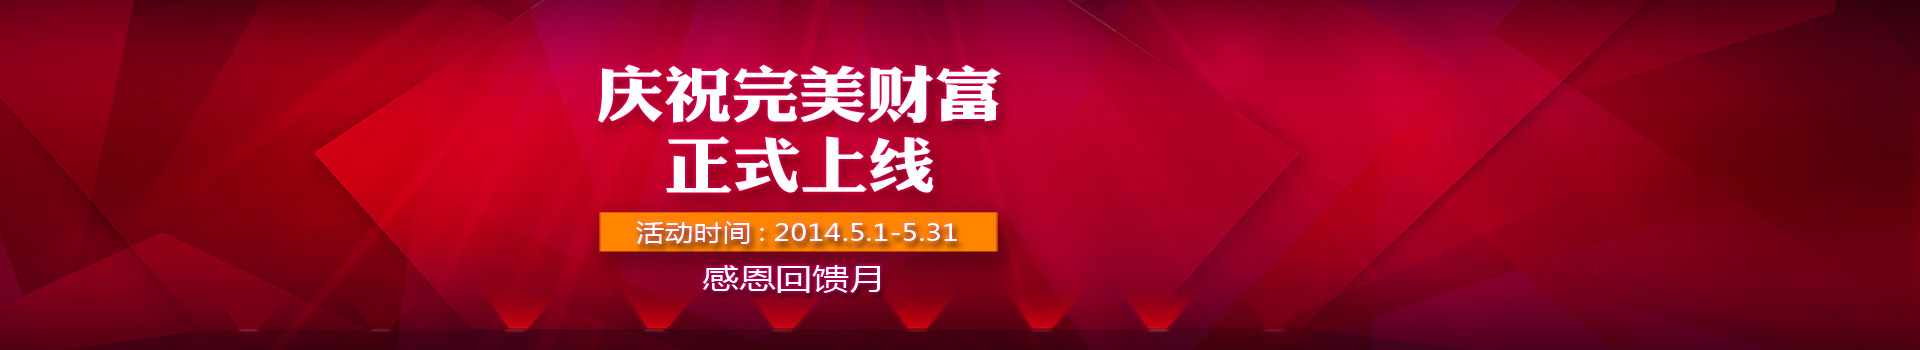
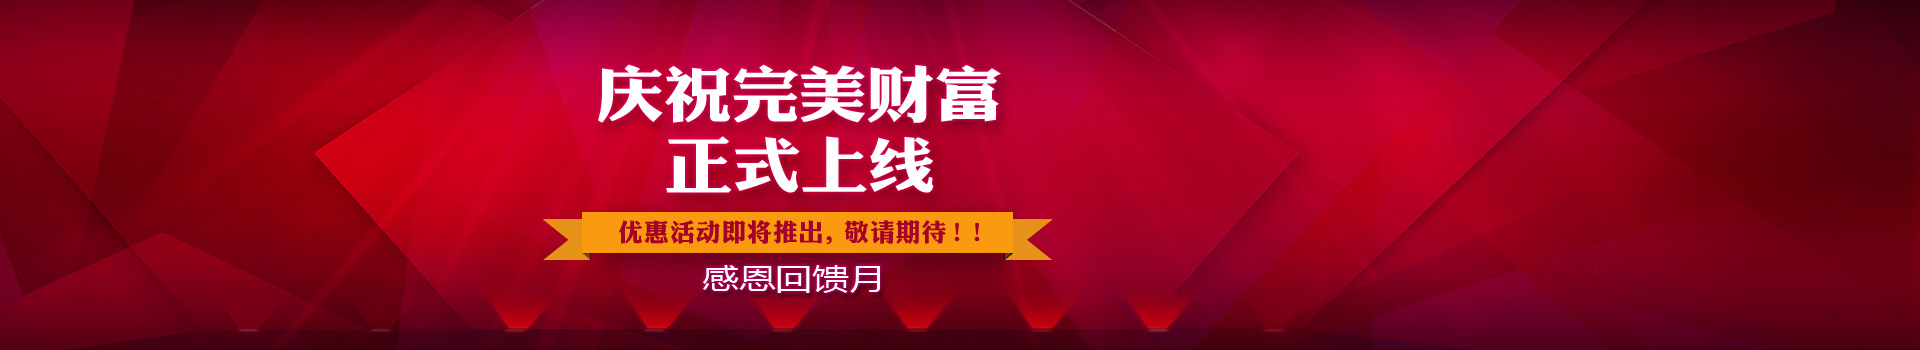
修正头部和脚步文件部分样式问题,修改banner第一张焦点图

Changed region(s): [[0.2812, 0.6, 0.5625, 0.7429]]

diff --git a/app/Tpl/red/inc/header.html b/app/Tpl/red/inc/header.html
@@ -66,7 +66,7 @@ var send_span = {function name="app_conf" v="SEND_SPAN"}000;
 			<div class="f_r">
 				<span id="user_head_tip" class="pr">
 				{insert name="load_user_tip"}
-				<span class="li"><a href="{url x="index"}">首页</a></span><span class="li"><a href="{url x="index" r="helpcenter"}">帮助</a></span><span class="li">客服电话：{function name="app_conf" v="SHOP_TEL"}</span>
+				<span class="li"><a href="{url x="index"}">首页</a></span><span class="li"><a href="{url x="index" r="helpcenter"}">帮助</a></span><span class="li">客服电话：<span style="color:#96E7FE; font-size:16px;">{function name="app_conf" v="SHOP_TEL"}</span></span>
 				</span>
 
 			</div>
@@ -81,7 +81,7 @@ var send_span = {function name="app_conf" v="SEND_SPAN"}000;
 		<ul>
             <!-- <li><a href="{$APP_ROOT}">首页</a></li> -->
             {foreach from=$nav_list item=nav_item key=key}
-			<li  class="onn"><a  title=""  style="padding: 10px 0; cursor: pointer;"  href="{$nav_item.url}" target="{if $nav_item.blank eq 1}_blank{/if}">{$nav_item.name}{if $nav_item.sub_nav}<img class="head_jia" src="{$TMPL}/images/nav_bg.png">{/if}</a>
+			<li  class="onnn {if $nav_item.sub_nav}onn{/if}"><a  title=""  style="padding: 10px 0; cursor: pointer;"  href="{$nav_item.url}" target="{if $nav_item.blank eq 1}_blank{/if}">{$nav_item.name}</a>
             {if $nav_item.sub_nav}
 				<ul  style="display: none;">
                     {foreach from=$nav_item.sub_nav item=sub_item}

diff --git a/app/Tpl/red/css/comm.css b/app/Tpl/red/css/comm.css
@@ -40,9 +40,9 @@ img{border:none;margin:0; padding:0;}
 .head_main ul li a{font-size:18px;color:#242b33;z-index:2;}
 .head_main ul li a:hover{color:#d90000;}
 .head_main ul li.on{border-bottom:3px solid #e61717;}
-.head_main ul li.onn{position:relative;}
-.head_main ul li.onn1{}
-.head_jia{ position:absolute;left:100px;top:33px;}
+.head_main ul li.onnn{position:relative;}
+.head_main ul li.onn{background:url("../images/nav_bg.png") no-repeat 100px 52px;}
+.head_main ul li.onn1{background:url("../images/nav_bghover.png") no-repeat 101px 52px;}
 .head_main ul li ul{position:absolute;border:1px solid #d6dce1;border-top:3px solid #e61717;z-index:5;top:75px;left:0;background:#fff;display:none;}
 .head_main ul li ul li{height:35px;line-height:35px;float:none;border-top:1px dotted #d6dce1;text-align:center;}
 .head_main ul li ul li a{ width:90px;}

diff --git a/app/Tpl/red/inc/footer.html b/app/Tpl/red/inc/footer.html
@@ -6,7 +6,7 @@
 	            <ul class="cf">
 	            	{foreach from=$deal_help item=help_cate name="help_cate"}
 					{if $smarty.foreach.help_cate.iteration <= app_conf('HELP_CATE_LIMIT')}
-					<li class="col hp{$smarty.foreach.help_cate.iteration}{if $smarty.foreach.help_cate.last} end{/if}">
+					<li class="col hp{$smarty.foreach.help_cate.iteration}{if $smarty.foreach.help_cate.last} end{/if}" style="height:auto; border:none;">
 	                    <h3>{$help_cate.title}</h3>
 	                    <ul class="sub-list">
 							{foreach from=$help_cate.help_list item=help_item name="help_item"}
